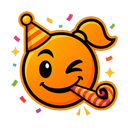
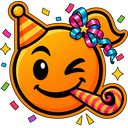
Preview: redo without echo.width/height (renderer defaults), validated by Virginie 2026-11-03

diff --git a/STATUS.md b/STATUS.md
@@ -26,6 +26,7 @@ audit_revision: c42b53d, tree dirty (Art migration, STATUS.md, documents); no fi
 automated_tests: 37 passed, 0 failed, 0 skipped, 2026-11-02, Tests/Run-Functional-Tests.ps1 (moved from scripts/ per 10.e; two tests cut, covered by shared Check-HarmonyContract 6/6 and Check-Translations, both run green today), on the distributed DLL DD89BD90
 pickle_suite: written 2026-09-28; 14 features (01 loading, 02 settings, 03 shortcut, 04 RIMMSQOL, 05 offering table, 06 dressing without a building, 07 outfit stand, 08 danger, 09 without Odyssey, 10 optional providers, 11 Shift Change, 12 and 13 restart, 14 the ritual hook), five pass maps. Three runs so far, `sans-facultatifs`; docs/runs/2026-09-28.md (runs 1-2) and docs/runs/2026-09-29.md (run 3) have the detail. Run 3 (c9be), 2026-09-29: 102 passed, 14 failed, 13 skipped of 129; settings/offerings/log/Odyssey-pass all confirmed fixed; two more test-side bugs fixed (a double AddObligation call, a raid strategy that could land no pawn on the map); feature 14 (the ritual hook) now fails cleanly on a fixture limitation flagged to the owner (the test-colony ideoligion has no ritual that both skips a required role and accepts a bare RitualSpot), not yet resolved, so `tested` is not reached. Since then (docs/runs/2026-09-30.md): fourth run 2026-09-29, 104 passed, 12 failed, 13 skipped of 129, the same features red (06 dressing, 07 stand, 08 danger, 14 ritual hook); `avec-offrandes` 5/5 green, `avec-rimmsqol` 4/4 green, restart pair green; `sans-odyssey` watchdog-timeout, feature 06 times out; `avec-shiftchange` 1 of 2, the reload loses the owner. All passes have now run once in English, none is fully green
 remaining:
+  - "2026-11-03 Preview redone (7b) after echo.width/height removal, validated by Virginie as rendered (echo robe hem touches the copy line, accepted). ModIcon.png re-derived by the renderer, still 128 x 128 RGBA."
   - "2026-11-02 ticket 20261102-212225-579-be36 queued: feature 14 (14-ritual-hook), English, sans-facultatifs, tree 84d4710, EvidenceDir Tests/Pickle/Inbox/ritual-14-en, owner local_d5bc8d2a (FtO). Fixes the test-side EndAgain defect of a749 (9556c77). On RUN_DONE: read summary.json, triage the Inbox, keep greens minified with RELEASE.md, update this file. Keep Mod/ Source/ Tests/ unchanged until then. Next after it: feature 06 (job boundary), the 2 owner decisions pending with Audit (none open)."
   - "2026-11-02 local scripts (Audit word, 10.e): Run-Functional-Tests.ps1 and Check-Optional-Offerings.ps1 moved scripts/ to Tests/ (restored, not dropped); harness cut 39 to 37 (access test and translation-key test now done by Check-HarmonyContract and Check-Translations); 37 pass. Rows relisted in LOCAL_SCRIPTS.md, awaiting Audit validation. Tests/Pickle/Check-Steps.ps1 removed (shared Check-Steps 0 errors; 2 dead patterns still to use or delete)."
   - "unverified (writeTests, 3.b): a rebuild on 2026-10-11 gives a DLL (SHA256 7B0ABAB2...) that differs from the committed one (DD89BD90...) with the same sources: Source/ForTheOccasion.csproj floats Lib.Harmony 2.* and Krafs.Rimworld.Ref 1.6.*-*, and newer packages are now in the NuGet cache. The committed DLL was kept; not pinned (no code change made). Decide with the owner whether to pin."
@@ -44,7 +45,7 @@ remaining:
   - "reserve, optional, not blocking: the Preview was engraved on 2026-09-13, before the overlay standard of 2026-09-25, so it has no version badge and there is no Art/preview-palette.json; the dependent settings are hidden when their parent is off instead of being greyed with a reason. Neither is a criterion of the chain."
 session:      local_3985f501-9197-4120-a625-646747326435
 updated:      2026-11-02, audit replay (stage unchanged), local Check-Steps.ps1 removed, feature 14 step fix 9556c77; stage playTests[1.0.0]
-protocols_read_sha: 498bc9f9c09890466b2339f36a5419e3827a978b
+protocols_read_sha: 729c9f4c25a4a581ebb52266cdfa058d16ef4906
 ---
 # For the Occasion: status
 
